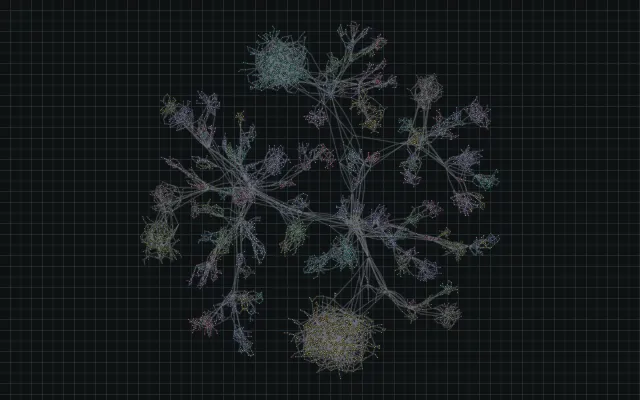
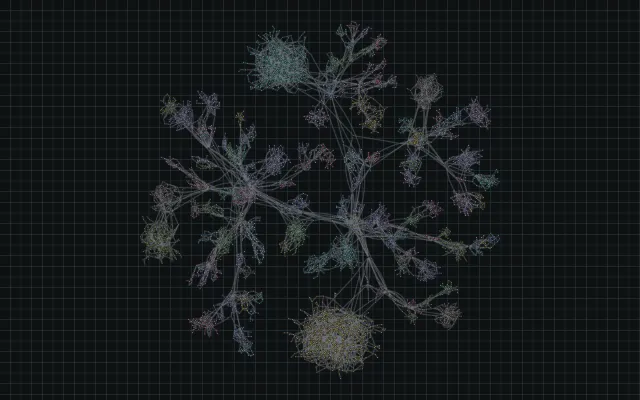
fix: give the untangle pass a budget of 300 ms by default

diff --git a/src/layouts/force/untangle-stage.test.ts b/src/layouts/force/untangle-stage.test.ts
@@ -25,7 +25,7 @@ function fakeJob(rounds: number, moved = true, skipped = false) {
   return { job, pins }
 }
 
-function setup(job: UntangleJob, untangle = 1000, load?: UntangleStage['load']) {
+function setup(job: UntangleJob, untangle = 300, load?: UntangleStage['load']) {
   const tasks: (() => void)[] = []
   const ends: [number[], LayoutEndOptions | undefined][] = []
   const progress: number[] = []
@@ -133,11 +133,11 @@ describe('untangling', () => {
 
   it('waits for a pass loaded on demand, and ends without it when loading fails', async () => {
     const { job } = fakeJob(1)
-    const later = setup(job, 1000, () => Promise.resolve(() => job))
+    const later = setup(job, 300, () => Promise.resolve(() => job))
     later.inner().end(Float32Array.of(9, 9, 9, 9, 9, 9))
     await later.drain()
     expect(later.ends).toEqual([[[1, 2, 3, 4, 5, 6], { glide: true }]])
-    const failed = setup(job, 1000, () => Promise.reject(new Error('offline')))
+    const failed = setup(job, 300, () => Promise.reject(new Error('offline')))
     failed.inner().end(Float32Array.of(9, 9, 9, 9, 9, 9))
     await failed.drain()
     expect(failed.ends).toEqual([[[9, 9, 9, 9, 9, 9], undefined]])

diff --git a/src/layouts/force/simulation.ts b/src/layouts/force/simulation.ts
@@ -84,7 +84,7 @@ export interface UntangleOptions {
   /**
    * Longest time the pass may work, in milliseconds. `Infinity` lets it end by itself. A negative
    * or NaN value falls back to the default.
-   * @default 1000
+   * @default 300
    */
   readonly budget?: number | undefined
 }
@@ -123,7 +123,7 @@ export const forceDefaults: ForceSettings = {
   steps: 300,
   engine: 'auto',
   multilevel: 'auto',
-  untangle: 1000,
+  untangle: 300,
 }
 
 export const alphaMin = 0.001
@@ -177,7 +177,7 @@ export function resolveForce(options: ForceOptions = {}): ForceSettings {
   }
 }
 
-const untangleBudget = 1000
+const untangleBudget = 300
 
 function untangleOf(value: ForceOptions['untangle']): number {
   if (value === undefined) return forceDefaults.untangle

diff --git a/skills/layouts/SKILL.md b/skills/layouts/SKILL.md
@@ -82,7 +82,7 @@ const definition = defineGraph({
 const graph = mountGraph(document.body, { definition, ariaLabel: 'Sample graph' })
 ```
 
-Result: nodes settle over about 300 steps, the view keeps the graph framed while it settles (until the user pans or zooms), and the page stays responsive. Options of `force` (defaults): `edgeLength` 40, `repulsion` 80, `gravity` 0.04, `spacing` 6, `cohesion` 0.5, `groupSpacing` 16, `steps` 300, `engine` `'auto'`, `multilevel` `'auto'` (levels from 100 moving nodes, on runs that move at least half of them), `untangle` `true` (once the forces settle, a pass turns branches and moves nodes to remove edge crossings, then nodes glide there and the run ends after the glide; `{ budget }` in ms, 1,000 by default; skipped above 4 crossings per edge and with unfolded groups; `false` keeps the forces' result). A negative or non-finite value falls back to its default. Full table: [force API](https://bruno00o.github.io/graph/docs/api/force).
+Result: nodes settle over about 300 steps, the view keeps the graph framed while it settles (until the user pans or zooms), and the page stays responsive. Options of `force` (defaults): `edgeLength` 40, `repulsion` 80, `gravity` 0.04, `spacing` 6, `cohesion` 0.5, `groupSpacing` 16, `steps` 300, `engine` `'auto'`, `multilevel` `'auto'` (levels from 100 moving nodes, on runs that move at least half of them), `untangle` `true` (once the forces settle, a pass turns branches and moves nodes to remove edge crossings, then nodes glide there and the run ends after the glide; `{ budget }` in ms, 300 by default; skipped above 4 crossings per edge and with unfolded groups; `false` keeps the forces' result). A negative or non-finite value falls back to its default. Full table: [force API](https://bruno00o.github.io/graph/docs/api/force).
 
 ## Core Patterns
 
